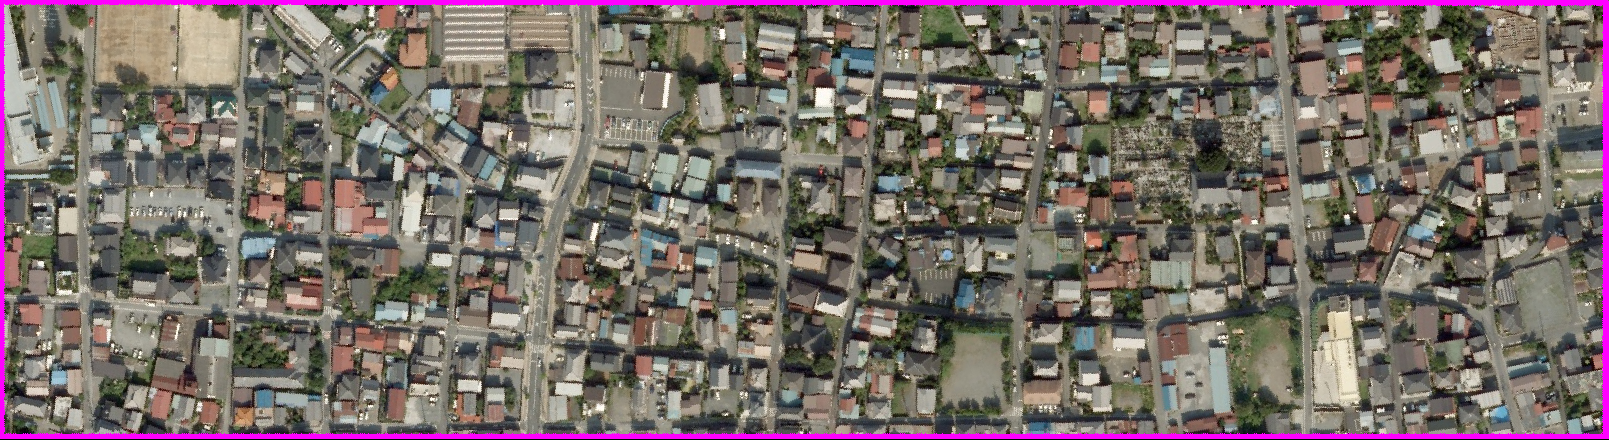
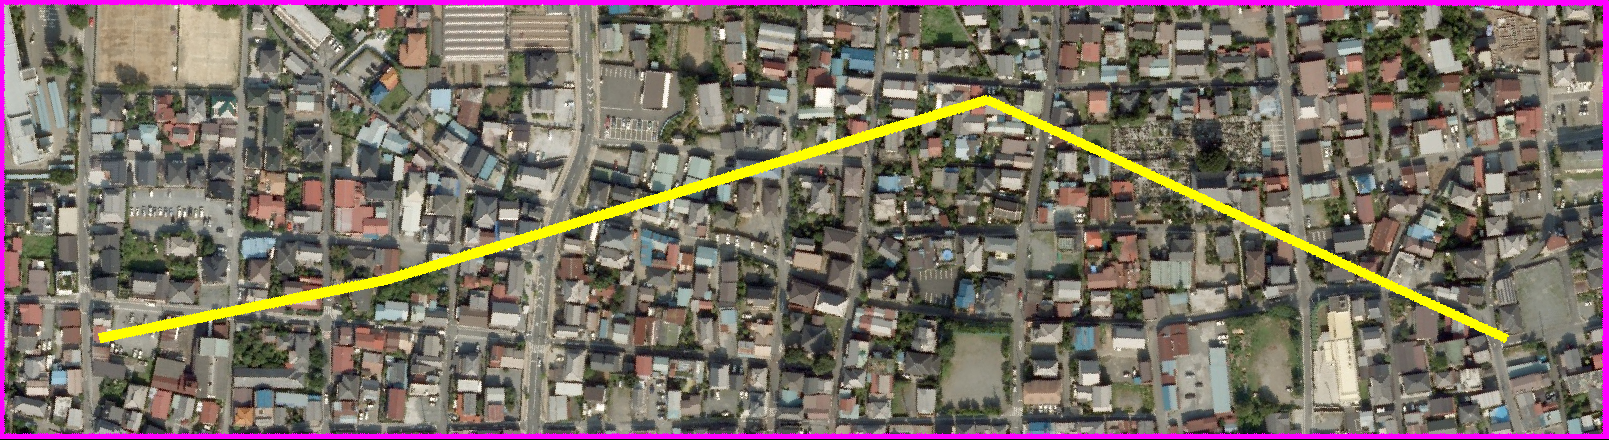
demo.py is corrected

diff --git a/linking/demo.py b/linking/demo.py
@@ -121,7 +121,7 @@ a=  """
 lpi.concat_tile(bounds, pickup_tiles, \
         file_path='../datasets/', file_extention='.webp', \
         save_path='./', draw_polyline=ls2, draw_bounds=True, \
-        rotate='theta', return_check=True,crop_mode='all')
+        rotate='horizontal', return_check=True, crop_mode='all')
 
 #%%
 lpi.concat_tile_segment(pickup_tiles, pickup_tiles_intersection, \
